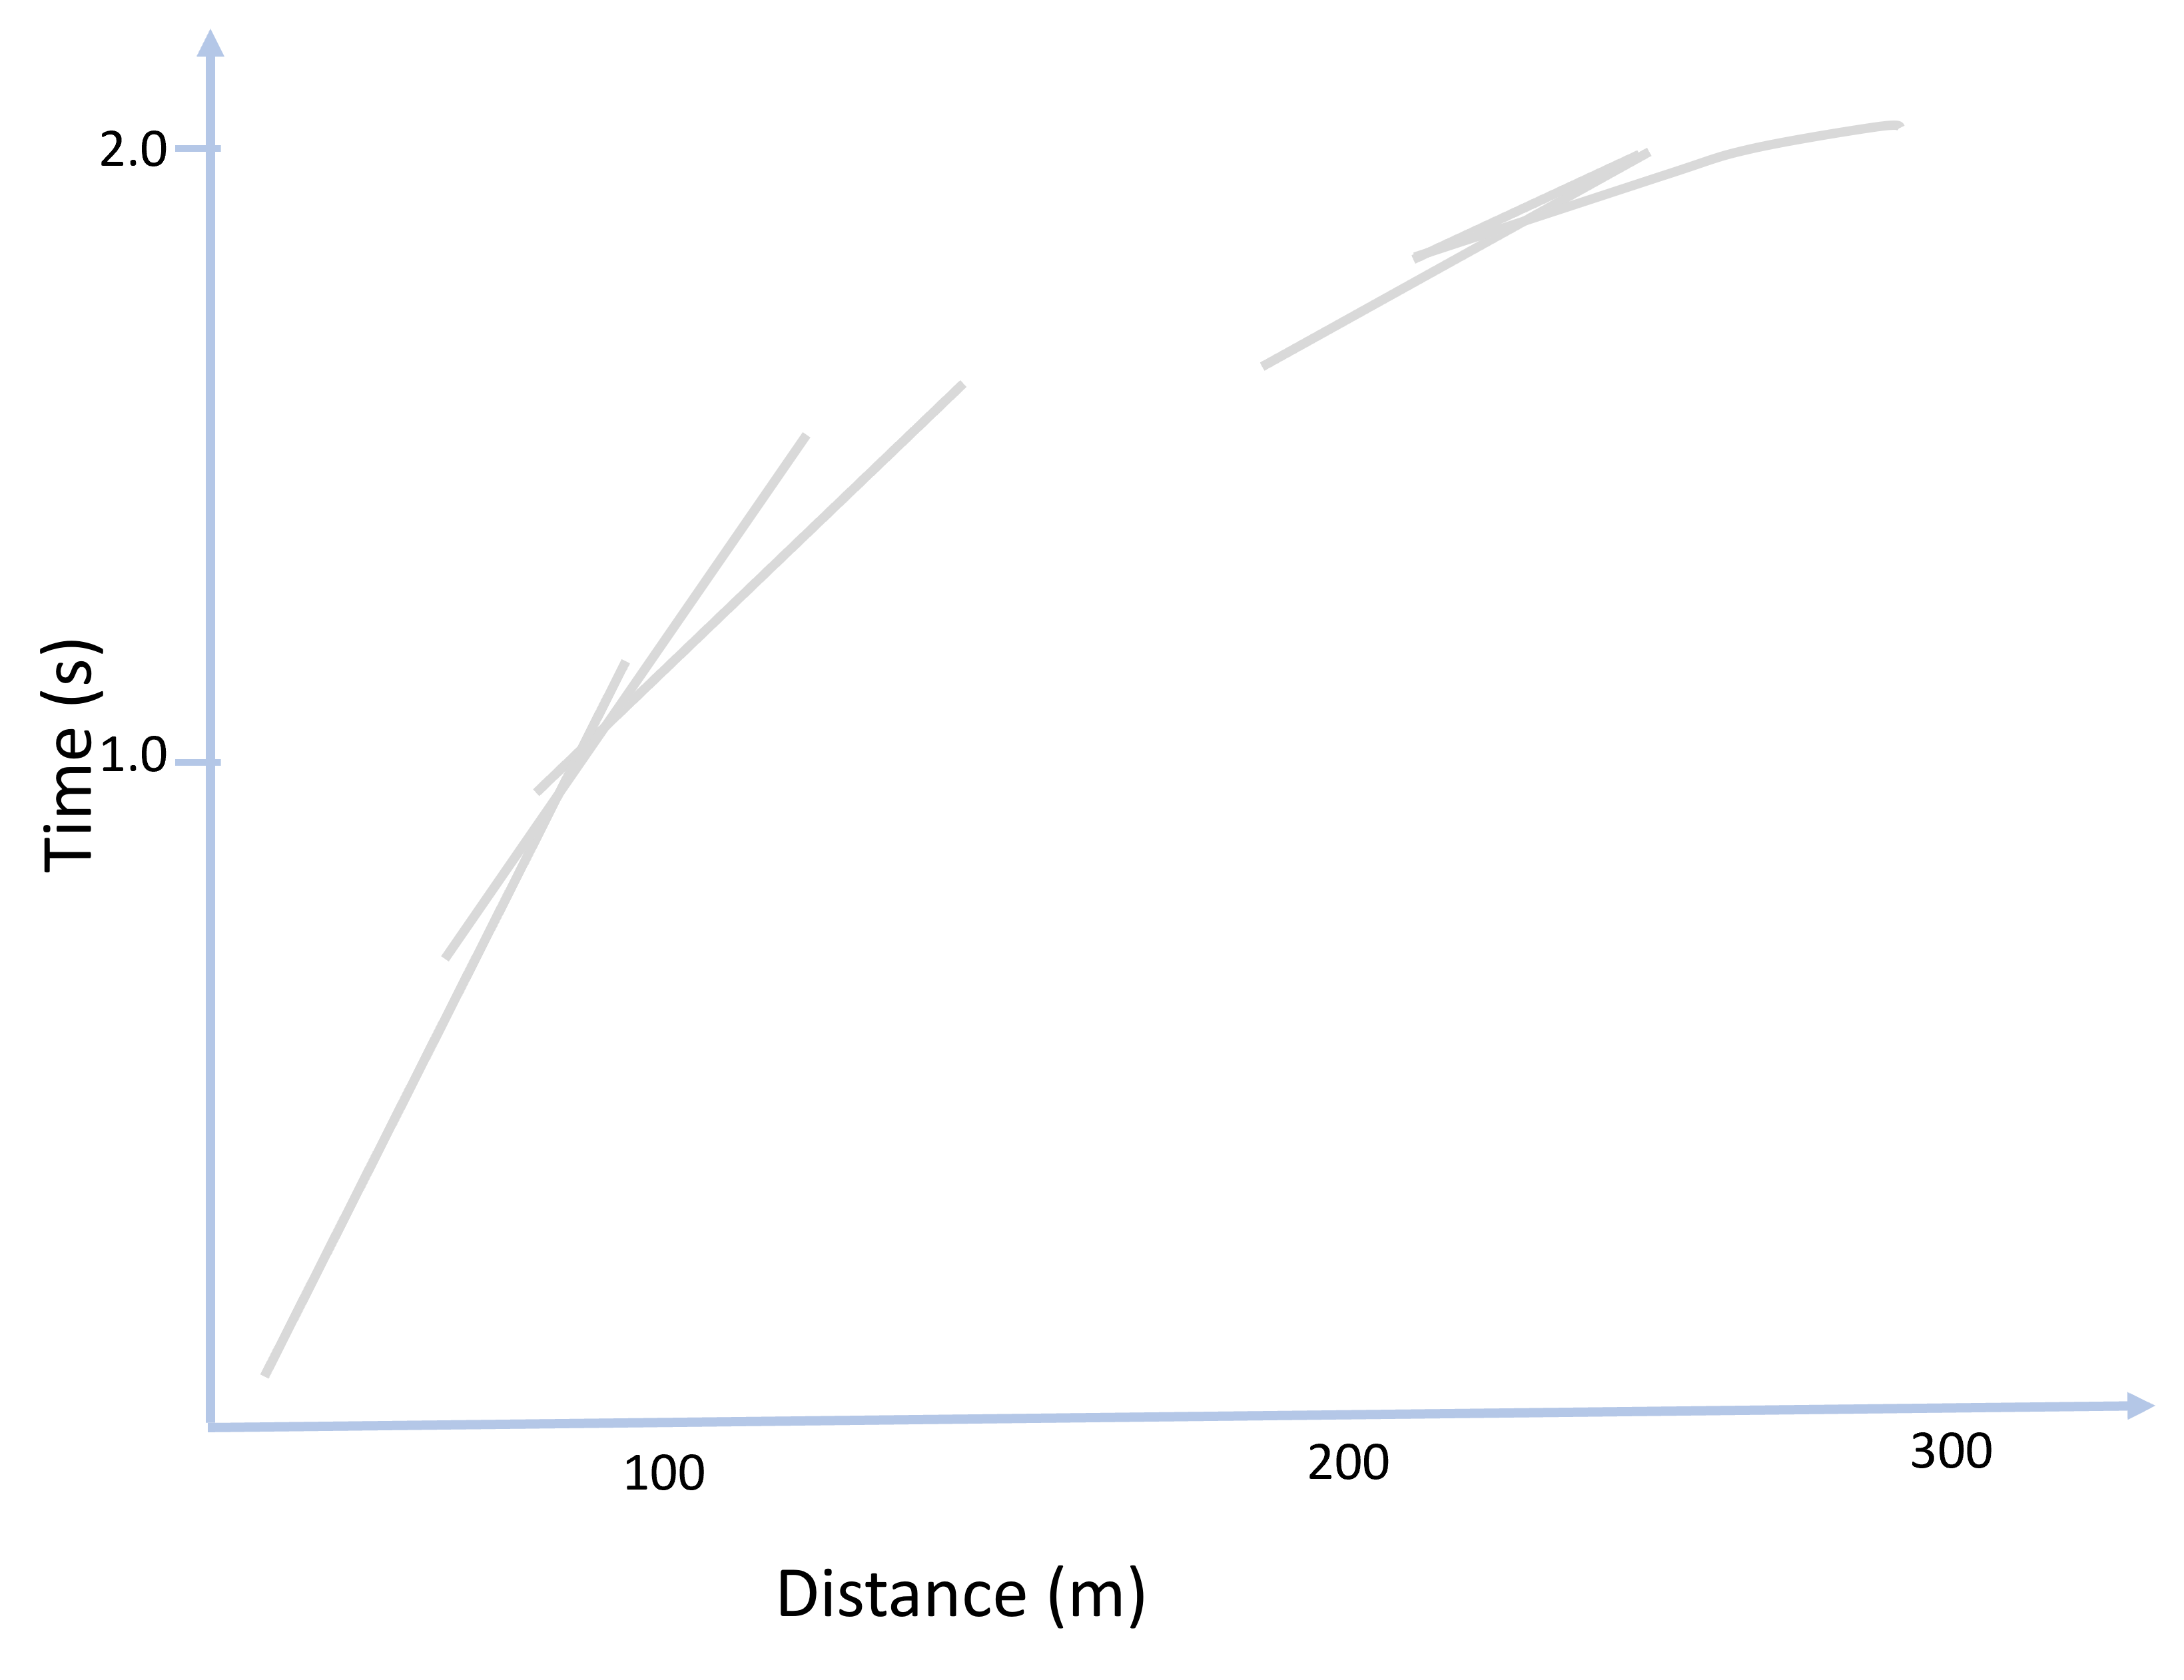
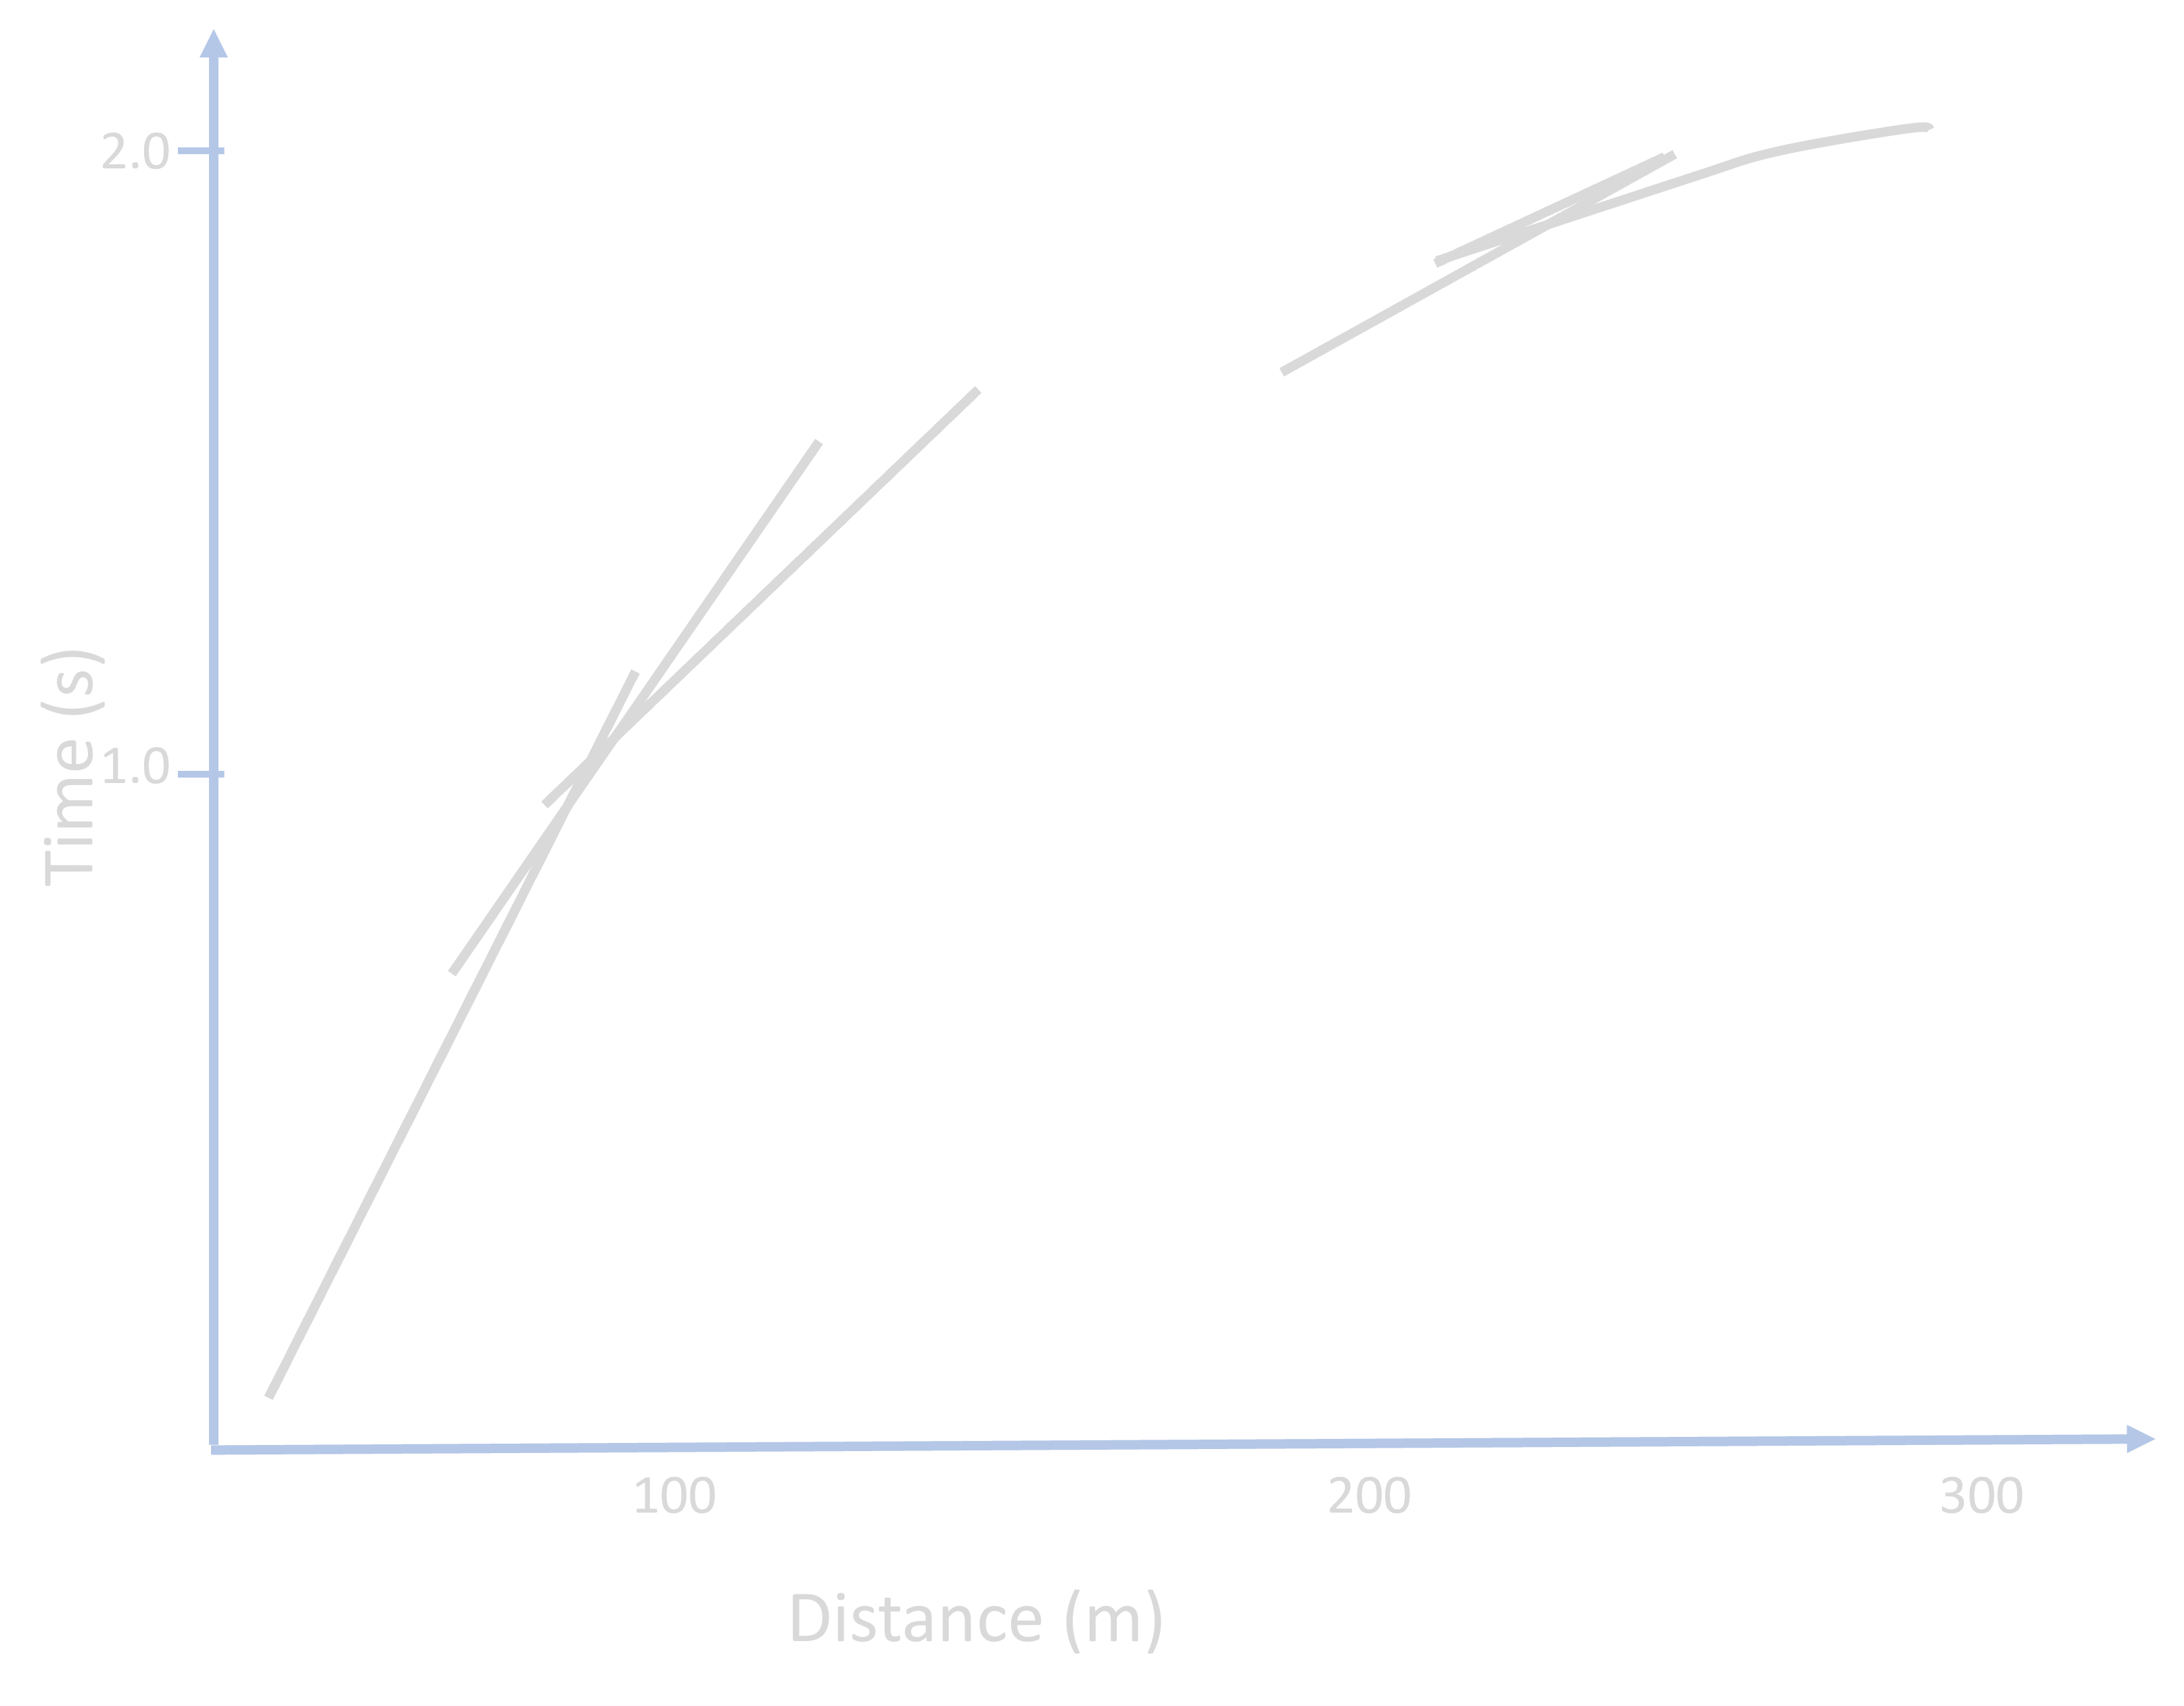
k

diff --git a/teaching/workshop/DeepEarth/Exercise1.md b/teaching/workshop/DeepEarth/Exercise1.md
@@ -11,6 +11,6 @@ title: Deep Earth Interior
 
 <img src="exercise1.png" width="100%">
 
-#Exercise 2
+# Exercise 2
 
 <img src="exercise2.png" width="100%">